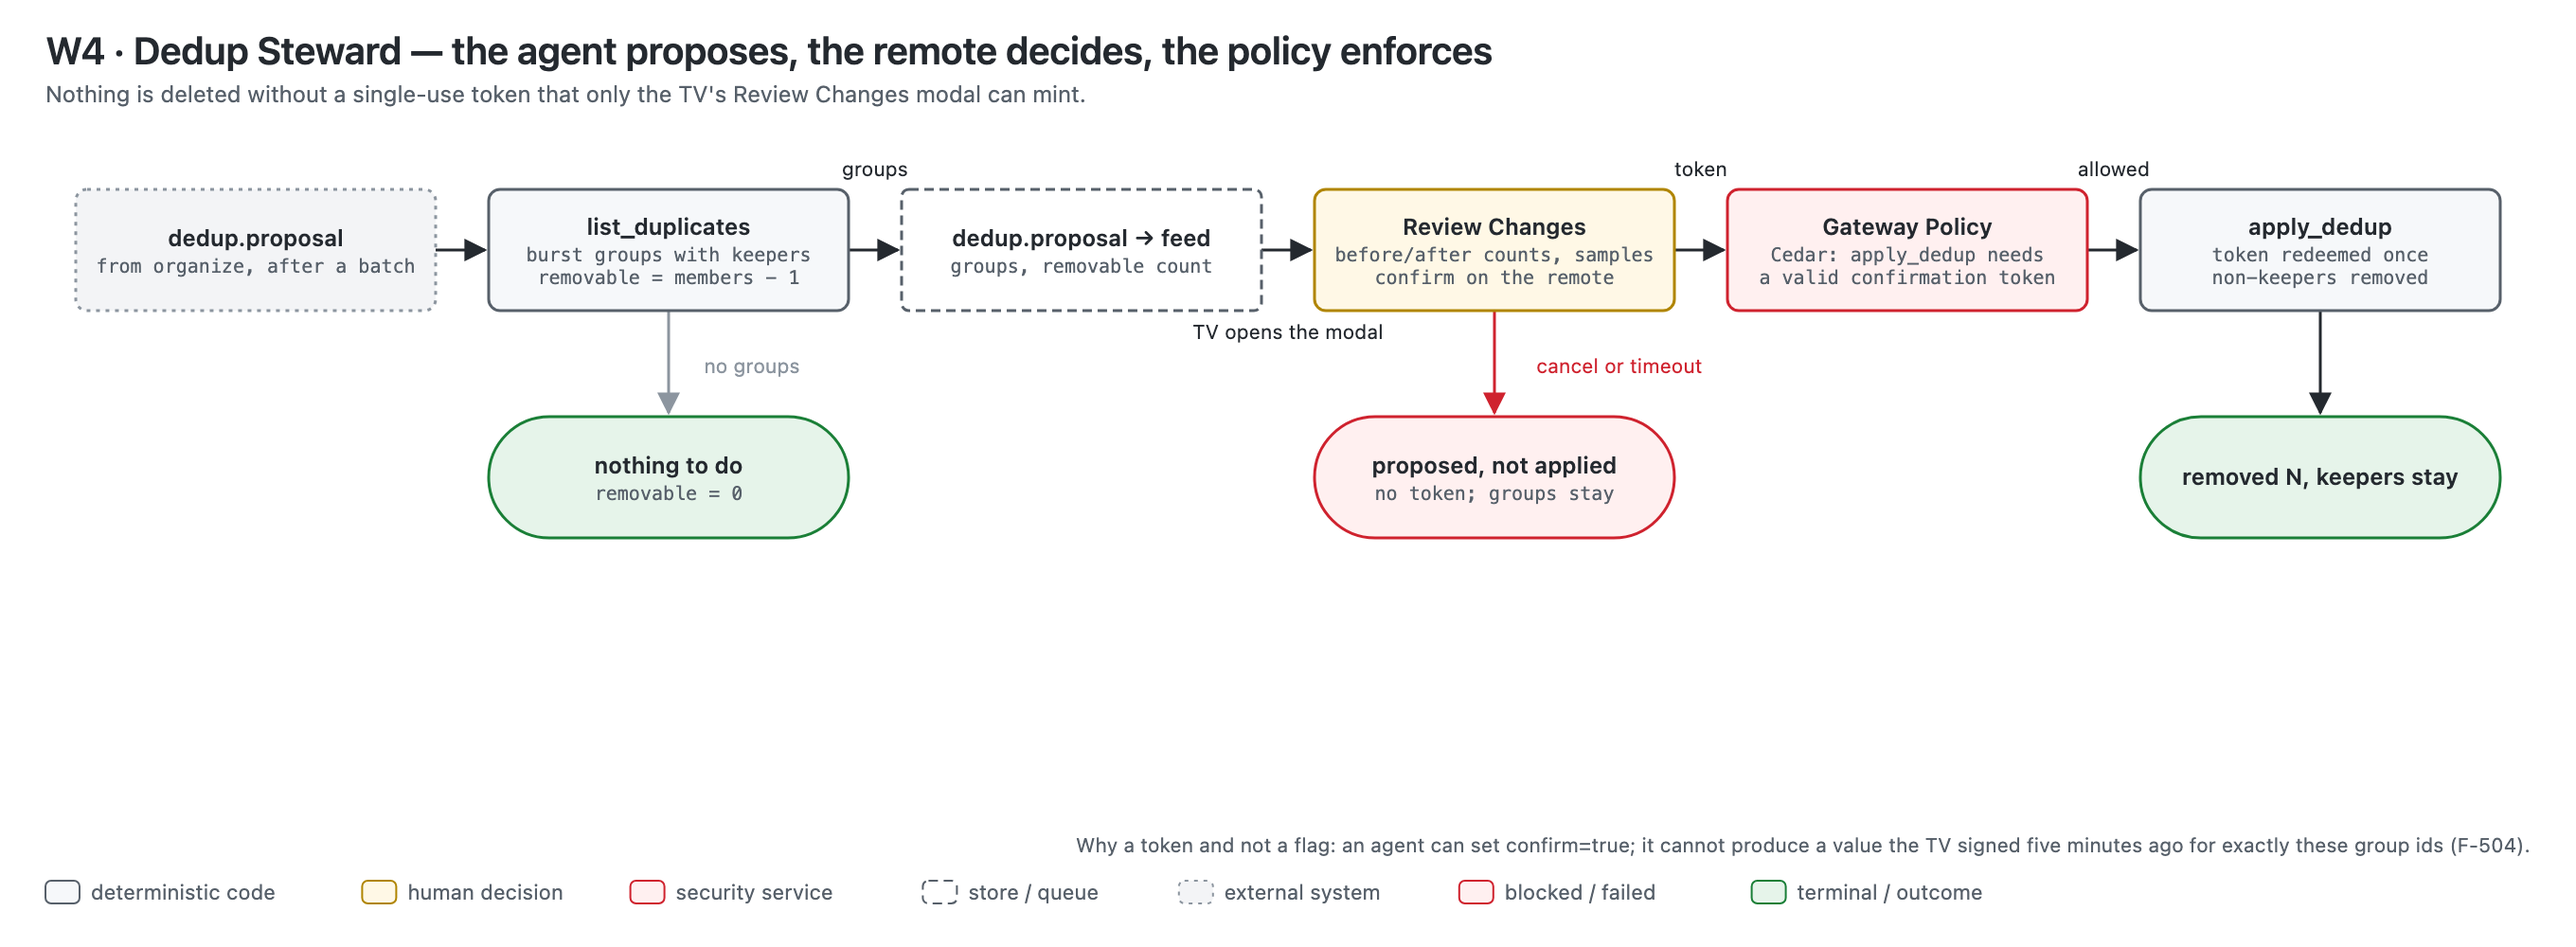
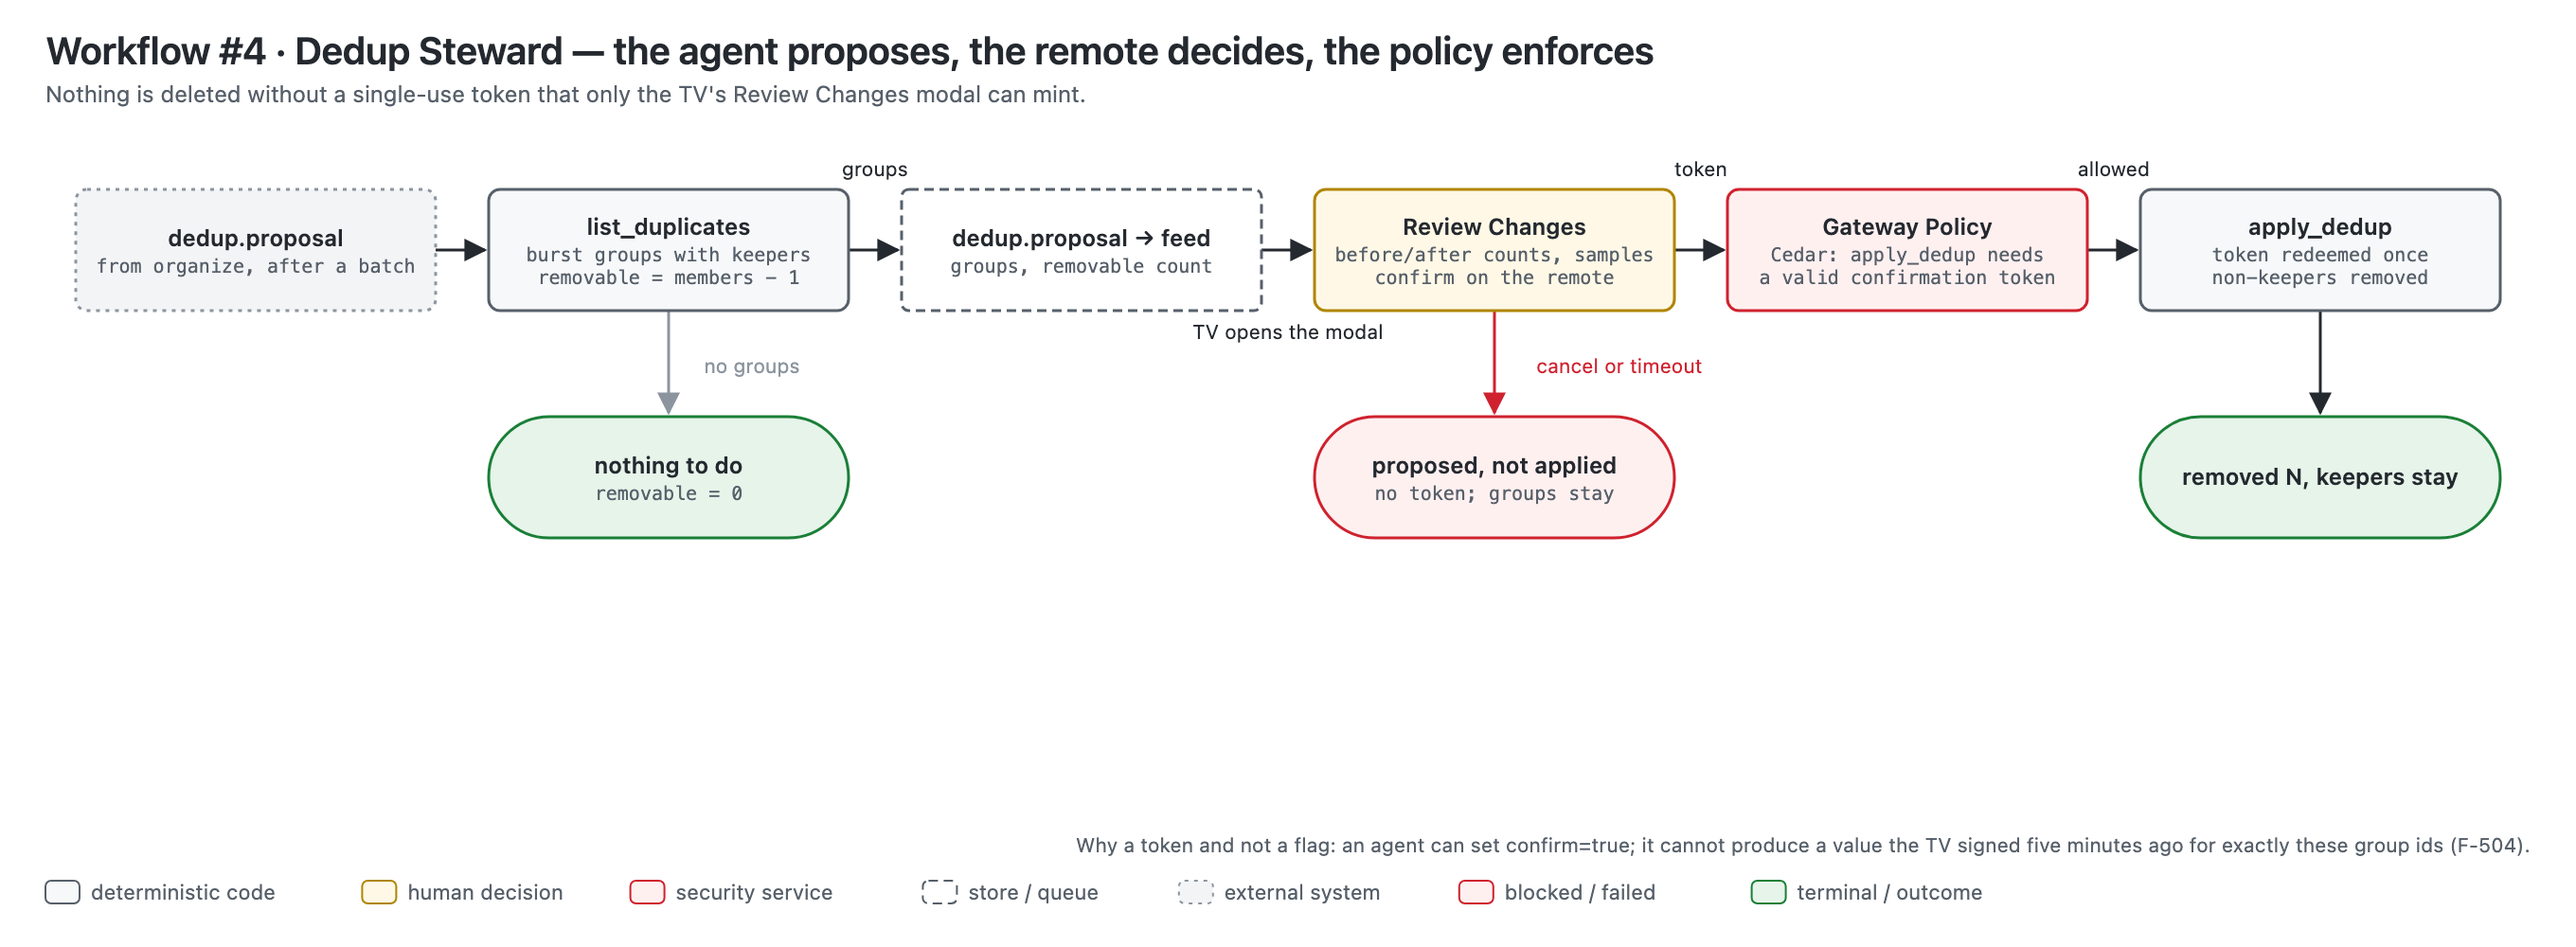
docs(diagrams): escape quotes in SVG attributes, name workflows in full, mark them on the topology
The builder escaped <, > and & but not the double quote, so a quoted
title broke the aria-label attribute and 06-w5 failed to parse as XML.
Workflow diagrams are titled Workflow #n; the topology labels which
workflows each entry edge serves and footnotes the nightly schedule.

Changed region(s): [[0.0312, 0.031, 0.6562, 0.093]]

diff --git a/docs/diagrams/README.md b/docs/diagrams/README.md
@@ -12,12 +12,12 @@ Drawn from the code as built on 2026-09-08. Dense by design; for checking a clai
 | # | Draws | Source |
 |---|-------|--------|
 | 01 | Topology: clients, API, S3, ingest state machines, DynamoDB, EventBridge, AgentCore, Alexa+, and the confirmation-token gate | `services/lambdas/api`, `services/lambdas/ingest`, `infra/lib/memorylane-stack.ts`, `agents/src/memorylane_agents` |
-| 02 | W1 Trip Curator: one model call, deterministic fact check, retry once, withhold, playlist and events either way | `agents/.../workflows.py::trip_curator`, `narrative.py` |
-| 03 | W2 Ask Your Archive: model turns words into a query, retrieval and playlist are deterministic | `workflows.py::ask_archive`, `runtime.py::invoke` |
-| 04 | W3 Household Patterns: nightly tag weights in Memory, favourite tag drives the ambient set, no model | `workflows.py::household_patterns` |
-| 05 | W4 Dedup Steward: propose, Review Changes on the remote, Cedar policy, apply only with the token | `workflows.py::dedup_steward`, `core::confirmation`, `api handlers/confirmations.rs` |
-| 06 | W5 Share: W2 path plus the same token gate as deletion | `workflows.py::share` |
-| 07 | W6 Trip Merge: clock alignment and regrouping in Rust ingest, agent re-tells the story with credits | `lambdas/ingest/src/organize.rs`, `workflows.py::trip_merge` |
+| 02 | Workflow #1 Trip Curator: one model call, deterministic fact check, retry once, withhold, playlist and events either way | `agents/.../workflows.py::trip_curator`, `narrative.py` |
+| 03 | Workflow #2 Ask Your Archive: model turns words into a query, retrieval and playlist are deterministic | `workflows.py::ask_archive`, `runtime.py::invoke` |
+| 04 | Workflow #3 Household Patterns: nightly tag weights in Memory, favourite tag drives the ambient set, no model | `workflows.py::household_patterns` |
+| 05 | Workflow #4 Dedup Steward: propose, Review Changes on the remote, Cedar policy, apply only with the token | `workflows.py::dedup_steward`, `core::confirmation`, `api handlers/confirmations.rs` |
+| 06 | Workflow #5 Share: Workflow #2 path plus the same token gate as deletion | `workflows.py::share` |
+| 07 | Workflow #6 Trip Merge: clock alignment and regrouping in Rust ingest, agent re-tells the story with credits | `lambdas/ingest/src/organize.rs`, `workflows.py::trip_merge` |
 
 Shared grid for 02 to 07 lives in `src/_grid.mjs`.
 
